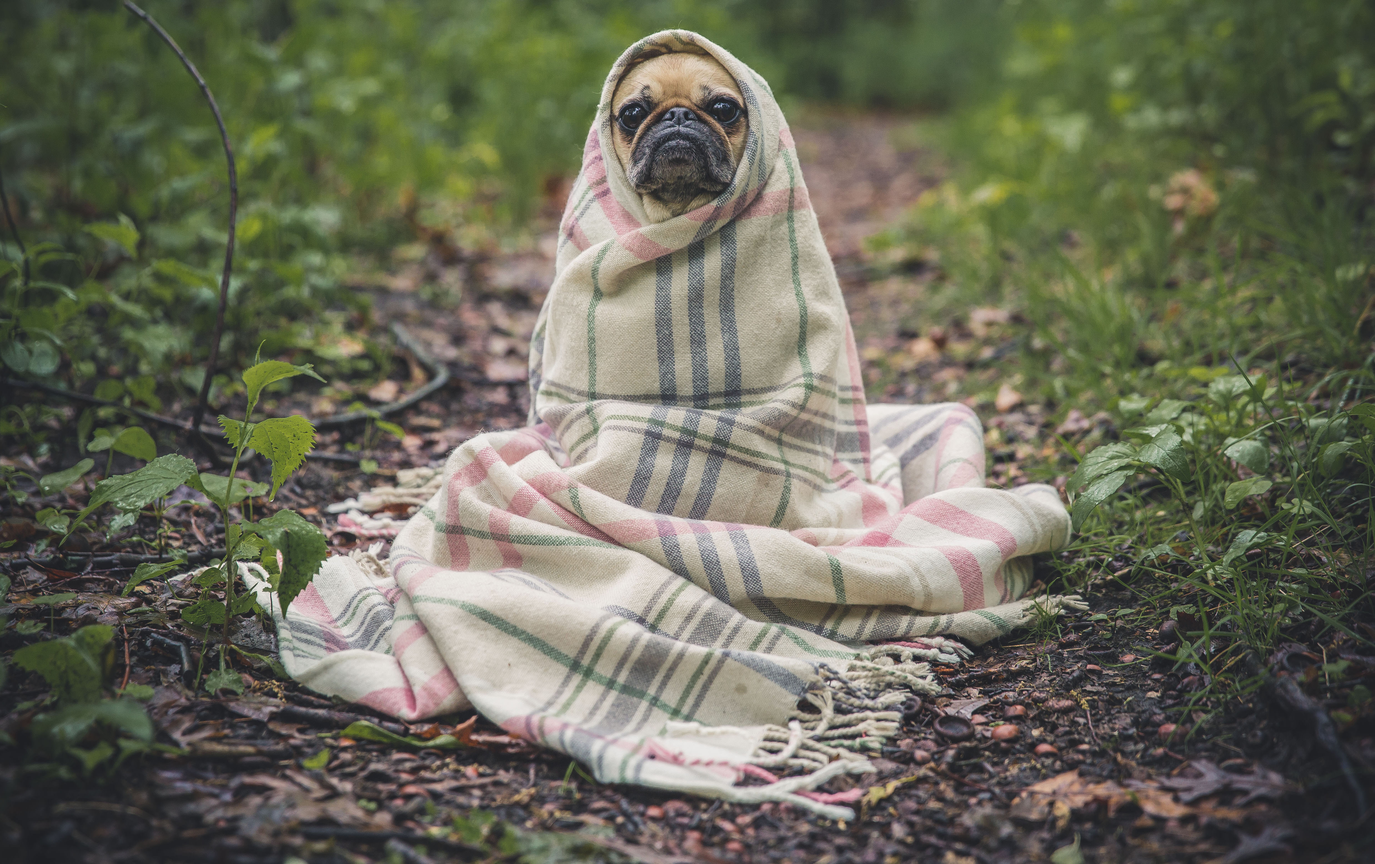
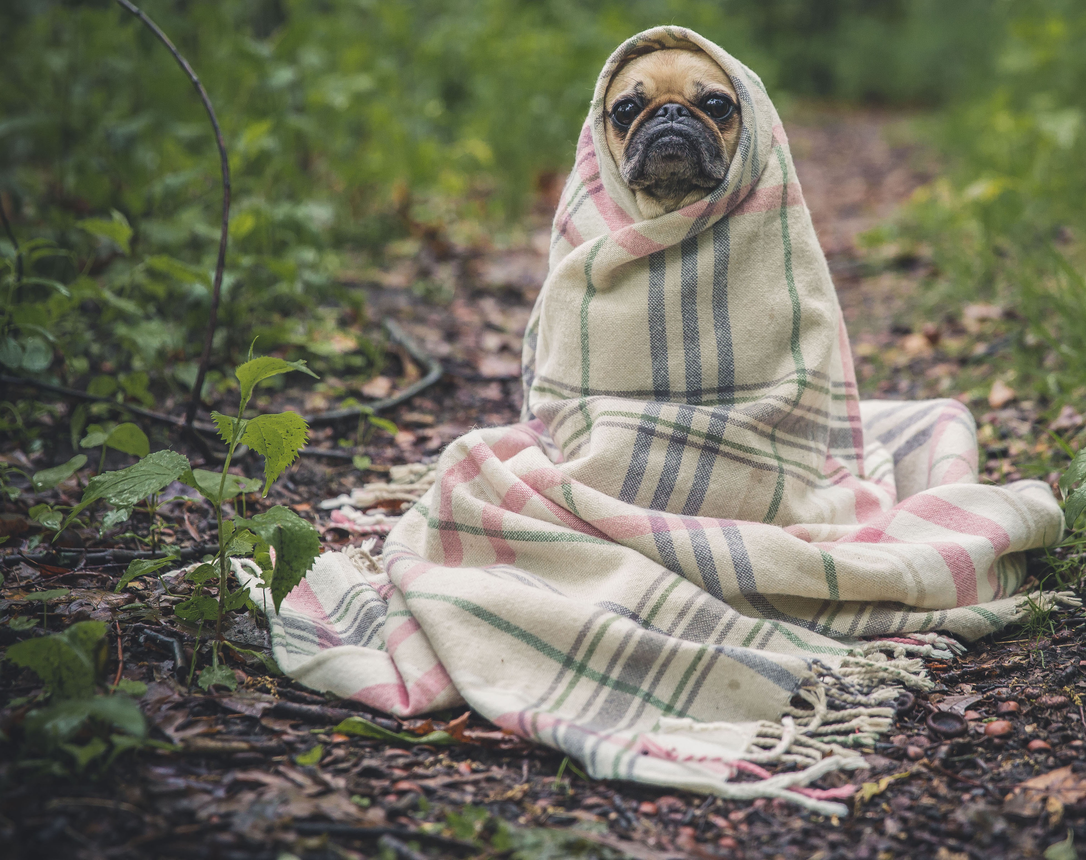
Homepage setup

diff --git a/lib/styles/main.min.css b/lib/styles/main.min.css
@@ -1,2 +1,2 @@
-*,*:after,*:before{box-sizing:border-box}html,body{height:100%}html,body,div,span,applet,object,iframe,h1,h2,h3,h4,h5,h6,p,blockquote,pre,a,abbr,acronym,address,big,cite,code,del,dfn,em,img,ins,kbd,q,s,samp,small,strike,strong,sub,sup,tt,var,b,u,i,center,dl,dt,dd,ol,ul,li,fieldset,form,label,legend,table,caption,tbody,tfoot,thead,tr,th,td,article,aside,canvas,details,embed,figure,figcaption,footer,header,hgroup,menu,nav,output,ruby,section,summary,time,mark,audio,video{margin:0;padding:0;border:0;font-size:100%;font:inherit;vertical-align:baseline}article,aside,details,figcaption,figure,footer,header,hgroup,menu,nav,section{display:block}body{line-height:1}ol,ul{list-style:none}blockquote,q{quotes:none}blockquote:before,blockquote:after,q:before,q:after{content:'';content:none}table{border-collapse:collapse;border-spacing:0}#hero{background:url("../../images/dog_blanket.jpg") no-repeat;height:300px;background-size:cover}nav{background:#d1cdc3;height:60px}nav li{float:left;width:33%;text-align:center;font-size:40px;padding-top:10px;font-family:"Poppins",sans-serif;font-weight:bold}.center-container{margin:75px auto;height:685.73px;width:460px;position:relative;float:left}.hexagon-container .one-container{position:absolute;top:25px;left:25.5%}.hexagon-container .two-container{position:absolute;left:0;top:33%}.hexagon-container .three-container{position:absolute;right:0;top:33%}.hexagon-container .four-container{position:absolute;bottom:0;left:25.5%}.hexagon{position:relative;width:225px;height:129.91px;background-color:#64C7CC;margin:64.95px 0}.hexagon:after,.hexagon:before{content:"";position:absolute;width:0;border-left:112.5px solid transparent;border-right:112.5px solid transparent}.hexagon:before{bottom:100%;border-bottom:64.95px solid #64C7CC}.hexagon:after{top:100%;width:0;border-top:64.95px solid #64C7CC}.hexagon:hover{background-color:green}.hexagon:hover:after,.hexagon:hover:before{content:"";position:absolute;width:0;border-left:112.5px solid transparent;border-right:112.5px solid transparent}.hexagon:hover:before{bottom:100%;border-bottom:64.95px solid green}.hexagon:hover:after{top:100%;width:0;border-top:64.95px solid green}
+*,*:after,*:before{box-sizing:border-box}html,body{height:100%;background:url("../../images/dog_blanket.jpg") no-repeat;background-size:cover}html,body,div,span,applet,object,iframe,h1,h2,h3,h4,h5,h6,p,blockquote,pre,a,abbr,acronym,address,big,cite,code,del,dfn,em,img,ins,kbd,q,s,samp,small,strike,strong,sub,sup,tt,var,b,u,i,center,dl,dt,dd,ol,ul,li,fieldset,form,label,legend,table,caption,tbody,tfoot,thead,tr,th,td,article,aside,canvas,details,embed,figure,figcaption,footer,header,hgroup,menu,nav,output,ruby,section,summary,time,mark,audio,video{margin:0;padding:0;border:0;font-size:100%;font:inherit;vertical-align:baseline}article,aside,details,figcaption,figure,footer,header,hgroup,menu,nav,section{display:block}body{line-height:1}ol,ul{list-style:none}blockquote,q{quotes:none}blockquote:before,blockquote:after,q:before,q:after{content:'';content:none}table{border-collapse:collapse;border-spacing:0}nav{background:#d1cdc3;height:30px;box-shadow:0 4px 8px 0 rgba(0,0,0,0.2)}nav li{float:left;width:33%;text-align:center;font-size:20px;padding-top:8px;font-family:"Poppins",sans-serif;font-weight:bold}.center-container{margin:20px 0 0 140px;height:87%;width:355px;position:relative;float:left}.hexagon-container .one-container{position:absolute;top:4%;left:26.5%}.hexagon-container .two-container{position:absolute;left:0;top:33.5%}.hexagon-container .three-container{position:absolute;right:0;top:33.5%}.hexagon-container .four-container{position:absolute;bottom:0;left:26.5%}.hexagon{position:relative;width:168.75px;height:97.43px;background-color:#926D6A;margin:48.71px 0}.hexagon:after,.hexagon:before{content:"";position:absolute;width:0;border-left:84.38px solid transparent;border-right:84.38px solid transparent}.hexagon:before{bottom:100%;border-bottom:48.71px solid #926D6A}.hexagon:after{top:100%;width:0;border-top:48.71px solid #926D6A}.hexagon:hover{background-color:#d1cdc3}.hexagon:hover:after,.hexagon:hover:before{content:"";position:absolute;width:0;border-left:84.38px solid transparent;border-right:84.38px solid transparent}.hexagon:hover:before{bottom:100%;border-bottom:48.71px solid #d1cdc3}.hexagon:hover:after{top:100%;width:0;border-top:48.71px solid #d1cdc3}.hexagon:hover p{color:#926D6A}.hexagon p{color:#d1cdc3;font-family:"Poppins",sans-serif;line-height:97.43px;text-align:center;font-size:25px}
 /*# sourceMappingURL=main.min.css.map */

diff --git a/src/styles/partials/_home-handlebar.scss b/src/styles/partials/_home-handlebar.scss
@@ -1,74 +1,85 @@
 .center-container {
-    margin: 75px auto;
-    height: 685.73px;
-    width: 460px;
+    margin: 20px 0 0 140px;
+    height: 87%;
+    width: 355px;
     position: relative;
     float: left;
 }
 .hexagon-container {
     .one-container {
       position: absolute;
-      top: 25px;
-      left: 25.5%;
+      top: 4%;
+      left: 26.5%;
     }
     .two-container {
       position: absolute;
       left: 0;
-      top: 33%;
+      top: 33.5%;
     }
     .three-container {
       position: absolute;
       right: 0;
-      top: 33%;
+      top: 33.5%;
     }
     .four-container {
       position: absolute;
       bottom: 0;
-      left: 25.5%;
+      left: 26.5%;
     }
 }
 // hexagon structure
 .hexagon {
     position: relative;
-    width: 225px;
-    height: 129.91px;
-    background-color: #64C7CC;
-    margin: 64.95px 0;
+    width: 168.75px;
+    height: 97.43px;
+    background-color: $hexagonBackgroundColor;
+    margin: 48.71px 0;
     &:after,
     &:before {
         content: "";
         position: absolute;
         width: 0;
-        border-left: 112.5px solid transparent;
-        border-right: 112.5px solid transparent;
+        border-left: 84.38px solid transparent;
+        border-right: 84.38px solid transparent;
     }
     &:before {
         bottom: 100%;
-        border-bottom: 64.95px solid #64C7CC;
+        border-bottom: 48.71px solid $hexagonBackgroundColor;
     }
     &:after {
         top: 100%;
         width: 0;
-        border-top: 64.95px solid #64C7CC;
+        border-top: 48.71px solid $hexagonBackgroundColor;
     }
     &:hover {
-      background-color: green;
+      background-color: $navbarColor;
       &:after,
       &:before {
           content: "";
           position: absolute;
           width: 0;
-          border-left: 112.5px solid transparent;
-          border-right: 112.5px solid transparent;
+          border-left: 84.38px solid transparent;
+          border-right: 84.38px solid transparent;
       }
       &:before {
           bottom: 100%;
-          border-bottom: 64.95px solid green;
+          border-bottom: 48.71px solid $navbarColor;
       }
       &:after {
           top: 100%;
           width: 0;
-          border-top: 64.95px solid green;
+          border-top: 48.71px solid $navbarColor;
       }
+      p {
+        color: $hexagonBackgroundColor;
+      }
+    }
+
+    p {
+      color: $navbarColor;
+      font-family: $headingsFont;
+      line-height: 97.43px;
+      text-align: center;
+      font-size: 25px;
     }
 }

diff --git a/index.html b/index.html
@@ -12,17 +12,16 @@
 
     <!-- Content goes here -->
     <header>
+      <nav>
+          <ul>
+              <li>nav item#1</li>
+              <li>nav item#2</li>
+              <li>nav item#3</li>
+          </ul>
+      </nav>
     </header>
     <section id='hero'>
     </section>
-
-    <nav>
-        <ul>
-            <li>nav item#1</li>
-            <li>nav item#2</li>
-            <li>nav item#3</li>
-        </ul>
-    </nav>
 
     <main>
     </main>
@@ -31,16 +30,16 @@
     <section class='center-container'>
         <div class='hexagon-container'>
             <div class='one-container'>
-                <div class='hexagon one'></div>
+                <div class='hexagon one'><p>Toys</p></div>
             </div>
             <div class='two-container'>
-                <div class='hexagon two'></div>
+                <div class='hexagon two'><p>Accessories</p></div>
             </div>
             <div class='three-container'>
-                <div class='hexagon three'></div>
+                <div class='hexagon three'><p>Costumes</p></div>
             </div>
             <div class='four-container'>
-                <div class='hexagon four'></div>
+                <div class='hexagon four'><p>Adopt!</p></div>
             </div>
         </div>
     </section>

diff --git a/src/styles/partials/_navbar.scss b/src/styles/partials/_navbar.scss
@@ -1,13 +1,14 @@
 nav {
     background: $navbarColor;
-    height: 60px;
+    height: 30px;
+    box-shadow: 0 4px 8px 0 rgba(0, 0, 0, 0.2);
 
     li {
         float: left;
         width: 33%;
         text-align: center;
-        font-size: 40px;
-        padding-top: 10px;
+        font-size: 20px;
+        padding-top: 8px;
         font-family: $headingsFont;
         font-weight: bold;
     }

diff --git a/src/styles/partials/_header.scss b/src/styles/partials/_header.scss
@@ -1,5 +1,8 @@
-#hero {
-    background: url('../../images/dog_blanket.jpg') no-repeat;
-    height: 300px;
-    background-size: cover;
-}
+// #hero {
+//     // background: url('../../images/dog_blanket.jpg') no-repeat;
+//     // box-shadow: 0 0 8px 8px white inset;
+//     width: 50%;
+//     height: 100%;
+//     background-size: cover;
+//     float: right;
+// }

diff --git a/src/styles/main.scss b/src/styles/main.scss
@@ -4,6 +4,8 @@
 
 html, body {
   height: 100%;
+  background: url('../../images/dog_blanket.jpg') no-repeat;
+  background-size: cover;
 }
 
 @import 'partials/reset';

diff --git a/src/styles/partials/_variables.scss b/src/styles/partials/_variables.scss
@@ -1,2 +1,3 @@
 $navbarColor: #d1cdc3;
 $headingsFont: 'Poppins', sans-serif;
+$hexagonBackgroundColor: #926D6A;
